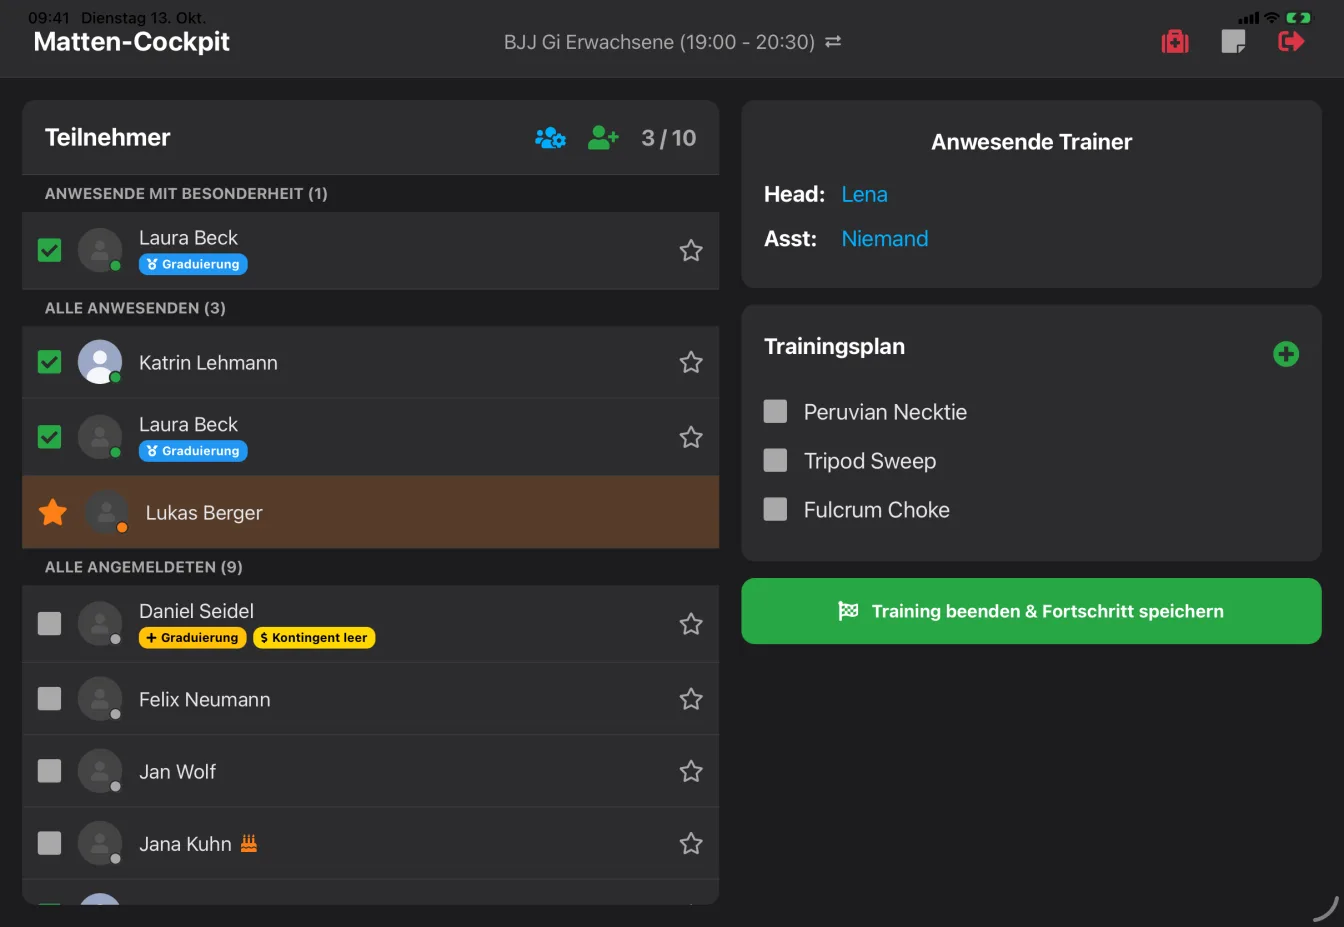
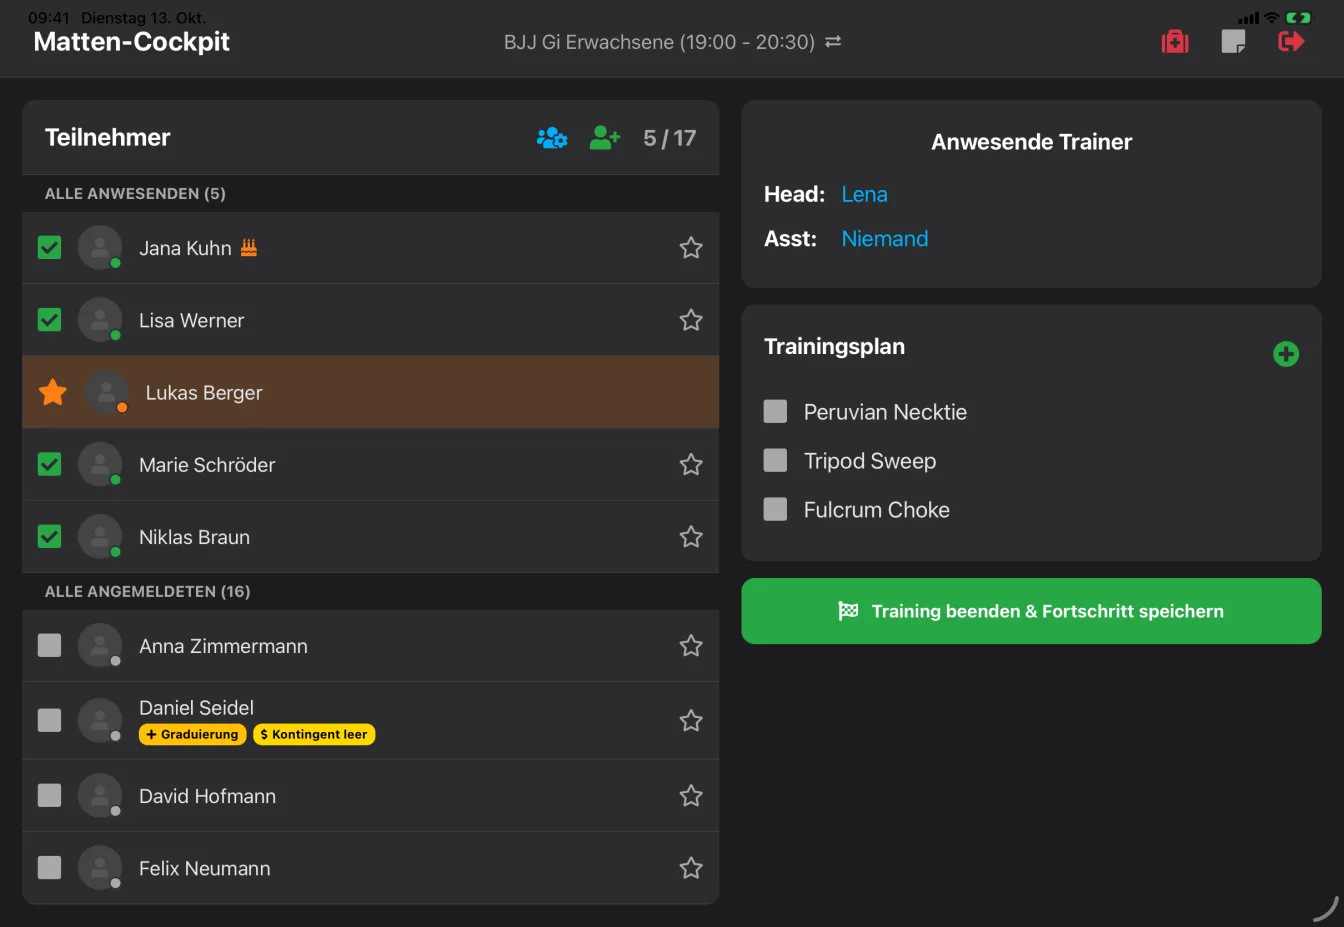
deploy: omnoss-website a7c22a6
Quelle: Omnoss-GmbH/omnoss-website a7c22a69d23c0815125658732a014800c6c9ed47 (main)
screens: Finanzen, Verträge, Cockpit v2

diff --git a/index.html b/index.html
@@ -55,7 +55,7 @@
   </div>
   <div class="s5 hero__geraete">
    <div class="hero__tablet">
-    <figure class="bild bild--tablet"><div class="geraet geraet--tablet"><img src="img/screens/mattencockpit-kursuebersicht.webp" width="672" height="464" alt="Mattencockpit auf dem iPad, Kursübersicht: BJJ Gi Erwachsene 19:00 mit 10 Teilnehmenden, Hinweisen (Graduierung, Kontingent, Probetraining), Trainerin Lena und Trainingsplan mit drei Techniken." loading="lazy" decoding="async"></div><figcaption class="bild__hinweis">Demodaten</figcaption></figure>
+    <figure class="bild bild--tablet"><div class="geraet geraet--tablet"><img src="img/screens/mattencockpit-kursuebersicht.webp" width="672" height="464" alt="Mattencockpit auf dem iPad, Kursübersicht: BJJ Gi Erwachsene 19:00 mit 17 Teilnehmenden (5 anwesend), Hinweisen (Graduierung, Kontingent, Probetraining), Trainerin Lena und Trainingsplan mit drei Techniken." loading="lazy" decoding="async"></div><figcaption class="bild__hinweis">Demodaten</figcaption></figure>
    </div>
    <div class="hero__telefon">
     <figure class="bild bild--telefon"><div class="geraet geraet--telefon"><img src="img/screens/mitglied-startseite.webp" width="248" height="538" alt="Mitglieder-App, Startseite: Profilkarte von Katrin Lehmann mit Avatar und blauem Gürtel, darunter der nächste gebuchte Kurs und der Check-in-Code." loading="lazy" decoding="async"></div><figcaption class="bild__hinweis">Demodaten</figcaption></figure>
@@ -118,13 +118,13 @@
     </ul>
    </div>
    <div class="s7 rechts">
-    <figure class="bild bild--telefon"><div class="geraet geraet--telefon"><img src="img/screens/owner-dashboard.webp" width="260" height="564" alt="Owner-Bereich, Startansicht: Begrüßung des Inhabers Tobias mit der heutigen Einheit (5 Anmeldungen), offenen Kontingent-Anfragen und At-Risk-Radar." loading="lazy" decoding="async"></div><figcaption class="bild__hinweis">Demodaten</figcaption></figure>
+    <figure class="bild bild--telefon"><div class="geraet geraet--telefon"><img src="img/screens/owner-dashboard.webp" width="260" height="564" alt="Owner-Bereich, Startansicht: Begrüßung des Inhabers Tobias mit der heutigen Einheit (18 Anmeldungen, Techniken), offenen Kontingent-Anfragen und At-Risk-Radar." loading="lazy" decoding="async"></div><figcaption class="bild__hinweis">Demodaten</figcaption></figure>
    </div>
   </div>
 
   <div class="g12">
    <div class="s7 links">
-    <figure class="bild bild--tablet"><div class="geraet geraet--tablet"><img src="img/screens/mattencockpit-kursuebersicht.webp" width="672" height="464" alt="Mattencockpit auf dem iPad, Kursübersicht: BJJ Gi Erwachsene 19:00 mit 10 Teilnehmenden, Hinweisen (Graduierung, Kontingent, Probetraining), Trainerin Lena und Trainingsplan mit drei Techniken." loading="lazy" decoding="async"></div><figcaption class="bild__hinweis">Demodaten</figcaption></figure>
+    <figure class="bild bild--tablet"><div class="geraet geraet--tablet"><img src="img/screens/mattencockpit-kursuebersicht.webp" width="672" height="464" alt="Mattencockpit auf dem iPad, Kursübersicht: BJJ Gi Erwachsene 19:00 mit 17 Teilnehmenden (5 anwesend), Hinweisen (Graduierung, Kontingent, Probetraining), Trainerin Lena und Trainingsplan mit drei Techniken." loading="lazy" decoding="async"></div><figcaption class="bild__hinweis">Demodaten</figcaption></figure>
    </div>
    <div class="s5 stapel">
     <p class="label">02 — Matte</p>
@@ -161,18 +161,7 @@
    </ul>
   </div>
   <div class="s6 rechts">
-   <div class="mock lauf" aria-hidden="true">
- <div class="mock-kopf"><div class="mock-titel mock-titel--17">SEPA-Lauf November</div><div class="mock-meta">Einzug 02.11. · Demo</div></div>
- <div class="mock-spalten-3 mock-spalten-3--12">
-  <div><div class="mock-wert mock-wert--24">412</div><div class="mock-meta">Mandate</div></div>
-  <div><div class="mock-wert mock-wert--24">46.820 €</div><div class="mock-meta">Summe</div></div>
-  <div><div class="mock-wert mock-wert--24 warnung">3</div><div class="mock-meta">Rücklastschriften</div></div>
- </div>
- <div class="lauf__trenner"></div>
- <div class="mock-zeile mock-zeile--ohne"><span>Lena K. · Erwachsene Gi</span><span>129,00 €</span></div>
- <div class="mock-zeile mock-zeile--ohne"><span>Murat A. · Probetraining</span><span class="sek">–</span></div>
- <div class="mock-zeile mock-zeile--ohne"><span>Sara M. · All-in</span><span>149,00 €</span></div>
-</div>
+   <figure class="bild bild--telefon"><div class="geraet geraet--telefon"><img src="img/screens/finanzen-lauf.webp" width="220" height="477" alt="Finanzen, SEPA-Lauf-Übersicht: Lauf 11 „Im Abgleich“ mit Einzug am 01.10., 20 Posten, Summe und Status „Vermutlich bezahlt“." loading="lazy" decoding="async"></div><figcaption class="bild__hinweis">Demodaten</figcaption></figure>
   </div>
  </div>
 </section>

diff --git a/produkt/finanzen.html b/produkt/finanzen.html
@@ -48,18 +48,7 @@
    <p class="text">Das Gym zieht im eigenen Namen ein, mit eigener Gläubiger-ID und eigener Einreichung bei der Bank. Kein Zahlungsdienstleister dazwischen, keine Gebühr auf jeden Beitrag. Omnoss ist technischer Dienstleister, das Geld läuft direkt.</p>
   </div>
   <div class="s6 bildspalte">
-   <div class="mock lauf" aria-hidden="true">
- <div class="mock-kopf"><div class="mock-titel mock-titel--17">SEPA-Lauf November</div><div class="mock-meta">Einzug 02.11. · Demo</div></div>
- <div class="mock-spalten-3 mock-spalten-3--12">
-  <div><div class="mock-wert mock-wert--24">412</div><div class="mock-meta">Mandate</div></div>
-  <div><div class="mock-wert mock-wert--24">46.820 €</div><div class="mock-meta">Summe</div></div>
-  <div><div class="mock-wert mock-wert--24 warnung">3</div><div class="mock-meta">Rücklastschriften</div></div>
- </div>
- <div class="lauf__trenner"></div>
- <div class="mock-zeile mock-zeile--ohne"><span>Lena K. · Erwachsene Gi</span><span>129,00 €</span></div>
- <div class="mock-zeile mock-zeile--ohne"><span>Murat A. · Probetraining</span><span class="sek">–</span></div>
- <div class="mock-zeile mock-zeile--ohne"><span>Sara M. · All-in</span><span>149,00 €</span></div>
-</div>
+   <figure class="bild bild--telefon"><div class="geraet geraet--telefon"><img src="../img/screens/finanzen-lauf.webp" width="220" height="477" alt="Finanzen, SEPA-Lauf-Übersicht: Lauf 11 „Im Abgleich“ mit Einzug am 01.10., 20 Posten, Summe und Status „Vermutlich bezahlt“." loading="lazy" decoding="async"></div><figcaption class="bild__hinweis">Demodaten</figcaption></figure>
   </div>
  </div>
 </section>
@@ -88,6 +77,7 @@
      <li>Vertragsarchiv</li>
      <li>Pause, Kündigung und Tarifwechsel zum Stichtag</li>
     </ul>
+    <figure class="bild bild--tablet"><div class="geraet geraet--tablet"><img src="../img/screens/vertrag-unterschrift.webp" width="380" height="552" alt="Vertragsabschluss am iPad, Übergabe an das Mitglied: „Tablet an Daniel Seidel übergeben“ – ab jetzt sind nur Vertrag, Mandat und Unterschrift zu sehen." loading="lazy" decoding="async"></div><figcaption class="bild__hinweis">Demodaten</figcaption></figure>
    </div>
   </div>
   <div class="abschnitt g12">

diff --git a/produkt/matte.html b/produkt/matte.html
@@ -48,7 +48,7 @@
    <p class="text">Zwei Werkzeuge für die Matte: das Mattencockpit auf dem Tablet am Eingang und die Trainer-App in der Tasche. Beide zeigen denselben Kurs aus denselben Daten.</p>
   </div>
   <div class="s6 bildspalte">
-   <figure class="bild bild--tablet"><div class="geraet geraet--tablet"><img src="../img/screens/mattencockpit-kursuebersicht.webp" width="672" height="464" alt="Mattencockpit auf dem iPad, Kursübersicht: BJJ Gi Erwachsene 19:00 mit 10 Teilnehmenden, Hinweisen (Graduierung, Kontingent, Probetraining), Trainerin Lena und Trainingsplan mit drei Techniken." loading="lazy" decoding="async"></div><figcaption class="bild__hinweis">Demodaten</figcaption></figure>
+   <figure class="bild bild--tablet"><div class="geraet geraet--tablet"><img src="../img/screens/mattencockpit-kursuebersicht.webp" width="672" height="464" alt="Mattencockpit auf dem iPad, Kursübersicht: BJJ Gi Erwachsene 19:00 mit 17 Teilnehmenden (5 anwesend), Hinweisen (Graduierung, Kontingent, Probetraining), Trainerin Lena und Trainingsplan mit drei Techniken." loading="lazy" decoding="async"></div><figcaption class="bild__hinweis">Demodaten</figcaption></figure>
   </div>
  </div>
 </section>
@@ -76,6 +76,7 @@
      <li>Anwesenheit erfassen</li>
      <li>Techniken je Einheit vorab planen</li>
     </ul>
+    <figure class="bild bild--telefon"><div class="geraet geraet--telefon"><img src="../img/screens/trainer-kursliste.webp" width="220" height="477" alt="Trainer-App, Kursliste: Kursplan eines Montags mit vier Einheiten, Trainern, geplanten Techniken und Anmeldezahlen." loading="lazy" decoding="async"></div><figcaption class="bild__hinweis">Demodaten</figcaption></figure>
    </div>
   </div>
   <div class="abschnitt g12">

diff --git a/produkt/owner.html b/produkt/owner.html
@@ -48,7 +48,7 @@
    <p class="text">Der Owner-Bereich zeigt nicht, was im letzten Quartal passiert ist. Er zeigt, was gerade passiert – je Kurs, je Trainer, je Mitglied.</p>
   </div>
   <div class="s6 bildspalte">
-   <figure class="bild bild--telefon"><div class="geraet geraet--telefon"><img src="../img/screens/owner-dashboard.webp" width="260" height="564" alt="Owner-Bereich, Startansicht: Begrüßung des Inhabers Tobias mit der heutigen Einheit (5 Anmeldungen), offenen Kontingent-Anfragen und At-Risk-Radar." loading="lazy" decoding="async"></div><figcaption class="bild__hinweis">Demodaten</figcaption></figure>
+   <figure class="bild bild--telefon"><div class="geraet geraet--telefon"><img src="../img/screens/owner-dashboard.webp" width="260" height="564" alt="Owner-Bereich, Startansicht: Begrüßung des Inhabers Tobias mit der heutigen Einheit (18 Anmeldungen, Techniken), offenen Kontingent-Anfragen und At-Risk-Radar." loading="lazy" decoding="async"></div><figcaption class="bild__hinweis">Demodaten</figcaption></figure>
   </div>
  </div>
 </section>
@@ -65,6 +65,7 @@
      <li>Wiederkehr neuer Mitglieder</li>
      <li>Auslastung je Kurs und Termin</li>
     </ul>
+    <figure class="bild bild--telefon"><div class="geraet geraet--telefon"><img src="../img/screens/owner-bindung.webp" width="220" height="477" alt="Owner-Bereich, Mitglieder-Bindung: Stammquote 90 % (36 von 40) und Neu-Wiederkehr 100 % mit Stammquote je Kurs." loading="lazy" decoding="async"></div><figcaption class="bild__hinweis">Demodaten</figcaption></figure>
    </div>
   </div>
   <div class="abschnitt g12">

diff --git a/fuer/mma.html b/fuer/mma.html
@@ -48,7 +48,7 @@
    <p class="text">In einer MMA-Schule trainiert dasselbe Mitglied Striking, Grappling und Wrestling – oft bei verschiedenen Trainern. Omnoss führt das als eine Akte.</p>
   </div>
   <div class="s6 bildspalte">
-   <figure class="bild bild--tablet"><div class="geraet geraet--tablet"><img src="../img/screens/mattencockpit-kursuebersicht.webp" width="672" height="464" alt="Mattencockpit auf dem iPad, Kursübersicht: BJJ Gi Erwachsene 19:00 mit 10 Teilnehmenden, Hinweisen (Graduierung, Kontingent, Probetraining), Trainerin Lena und Trainingsplan mit drei Techniken." loading="lazy" decoding="async"></div><figcaption class="bild__hinweis">Demodaten</figcaption></figure>
+   <figure class="bild bild--tablet"><div class="geraet geraet--tablet"><img src="../img/screens/mattencockpit-kursuebersicht.webp" width="672" height="464" alt="Mattencockpit auf dem iPad, Kursübersicht: BJJ Gi Erwachsene 19:00 mit 17 Teilnehmenden (5 anwesend), Hinweisen (Graduierung, Kontingent, Probetraining), Trainerin Lena und Trainingsplan mit drei Techniken." loading="lazy" decoding="async"></div><figcaption class="bild__hinweis">Demodaten</figcaption></figure>
   </div>
  </div>
 </section>
